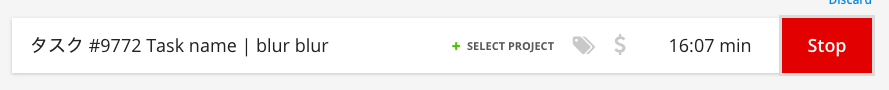
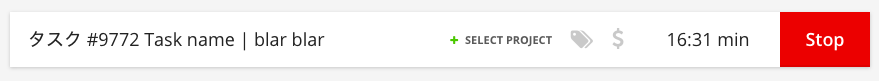
Improve comment detecting regex

diff --git a/README.md b/README.md
@@ -104,7 +104,7 @@ Then,
 
 ```
 $ togglmine
-## タスク #9772 Task name | blur blur
+## タスク #9772 Task name | blar blar
 curl -vX POST  -H 'Content-Type: application/xml' -H 'X-Redmine-API-Key: 1234567890abcdef1234567890abcdef12345678' https://example.com/time_entries.xml --data '
 <?xml version="1.0" encoding="UTF-8"?>
 <time_entry>
@@ -112,7 +112,7 @@ curl -vX POST  -H 'Content-Type: application/xml' -H 'X-Redmine-API-Key: 1234567
   <activity_id>8</activity_id>
   <spent_on>2016-10-02</spent_on>
   <hours>0.3</hours>
-  <comments>blur blur</comments>
+  <comments>blar blar</comments>
 </time_entry>
 '
 ```
